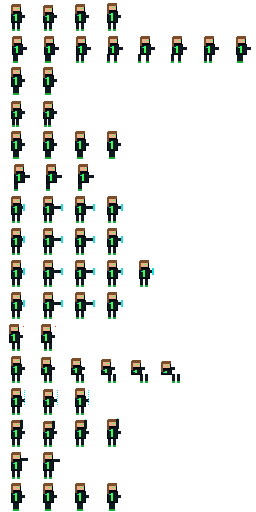
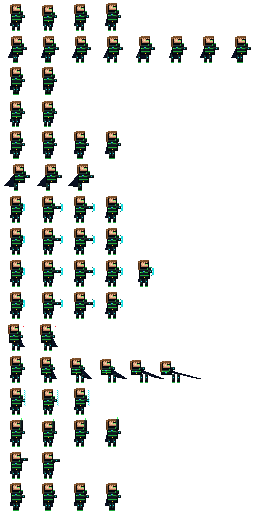
feat(art): heroes v2 - segmented armor, ramps, photo-extracted portraits
pixkit shading toolkit (ramps, dither, glow), palette ramps sampled from
the key art, hero frames rebuilt (armor plates + green piping, capes,
shoulder pads, 2-tone faces, Chris emitter / Flam long hair), portraits
and stage-5 vault wall extracted directly from CHRIS_FLAM_LEVEL_1_VICTORY.

diff --git a/tools/artgen/generate_placeholders.py b/tools/artgen/generate_placeholders.py
@@ -17,6 +17,8 @@ from PIL import Image, ImageDraw
 
 sys.path.insert(0, os.path.dirname(__file__))
 import palette as P  # noqa: E402
+from pixkit import (dither_row, glow_disc, glow_pool, scale_color,  # noqa: E402
+                    shade_rect, vshade_rect)
 
 FRAME = 32  # player frame size
 SHEET_COLS = 8
@@ -43,12 +45,18 @@ def _outline_rect(draw, x0, y0, x1, y1, fill, outline=P.OUTLINE):
     draw.rectangle([x0, y0, x1, y1], fill=fill, outline=outline)
 
 
-def draw_hero_frame(draw, ox: int, oy: int, anim: str, i: int, hair, long_hair: bool):
+def draw_hero_frame(draw, ox: int, oy: int, anim: str, i: int, hero: str):
     """One 32x32 hero frame at sheet offset (ox, oy).
 
-    Simple articulated placeholder: head + suit torso + legs + arm, with
-    per-animation offsets so timing/feel is testable before real art.
+    Key-art look: segmented black armor with green circuit piping between
+    plates, shoulder pads, cape, glowing chest logo, 2-tone face.
+    hero = 'chris' (bulky, short dark hair, forearm shield emitter) or
+    'flam' (lean, long swaying brown hair, cyan accents).
     """
+    chris = hero == "chris"
+    hair_ramp = P.CHRIS_HAIR_RAMP if chris else P.FLAM_HAIR_RAMP
+    accent = P.GREEN_DARK if chris else P.CYAN
+    half = 6 if chris else 5  # torso half-width: Chris is the tank
     cx = ox + 16  # frame center x
     is_attack = anim.startswith("attack") or anim == "air_attack"
     bob = [0, 1, 0, -1][i % 4] if anim in ("idle", "victory", "ability") else 0
@@ -87,54 +95,116 @@ def draw_hero_frame(draw, ox: int, oy: int, anim: str, i: int, hair, long_hair: 
         arm_y = 10 + (i % 2)
 
     body_top = min(body_top, 24)
-    # legs (suit)
-    _rect(draw, cx - 4 + leg_l // 2, oy + 22, cx - 2 + leg_l // 2, oy + 29, P.SUIT)
-    _rect(draw, cx + 1 + leg_r // 2, oy + 22, cx + 3 + leg_r // 2, oy + 29, P.SUIT)
-    # boots (green glow soles)
-    _rect(draw, cx - 4 + leg_l // 2, oy + 29, cx - 2 + leg_l // 2, oy + 30, P.GREEN_DARK)
-    _rect(draw, cx + 1 + leg_r // 2, oy + 29, cx + 3 + leg_r // 2, oy + 30, P.GREEN_DARK)
-    # torso (suit with green chest line)
-    _outline_rect(draw, cx - 5 + lean, oy + body_top, cx + 5 + lean, oy + 22, P.SUIT)
-    _rect(draw, cx - 1 + lean, oy + body_top + 2, cx + lean, oy + 20, P.GREEN)
-    # chest coin logo (blue/green)
-    _px(draw, cx - 3 + lean, oy + body_top + 3, P.BLUE)
-    _px(draw, cx - 2 + lean, oy + body_top + 3, P.GREEN)
-    # arm
-    _rect(draw, cx + 4 + lean, oy + arm_y, cx + 4 + lean + arm_len, oy + arm_y + 2, P.SUIT)
+    t0, t1 = oy + body_top, oy + 22
+
+    # cape behind everything (dark navy, trails against motion, sways at rest)
+    cape_sway = [0, 1, 0, -1][i % 4]
+    draw.polygon([
+        (cx - half + 1 + lean, t0 + 1),
+        (cx + half - 1 + lean, t0 + 1),
+        (cx + half - 2 + cape_sway - lean * 2, oy + 26),
+        (cx - half - 1 + cape_sway - lean * 2, oy + 25),
+    ], fill=(10, 16, 34, 255))
+    draw.line([(cx - half + cape_sway - lean * 2, oy + 25),
+               (cx + half - 3 + cape_sway - lean * 2, oy + 26)],
+              fill=(6, 10, 22, 255))  # cape hem shadow
+
+    # legs: armored, knee piping, glow soles
+    for leg_x, off in ((cx - 4, leg_l // 2), (cx + 1, leg_r // 2)):
+        shade_rect(draw, leg_x + off, oy + 22, leg_x + 2 + off, oy + 28, P.ARMOR_RAMP)
+        _px(draw, leg_x + 1 + off, oy + 25, accent)  # knee seam
+        _rect(draw, leg_x + off, oy + 29, leg_x + 2 + off, oy + 30, P.ARMOR_RAMP[0])
+        _rect(draw, leg_x + off, oy + 30, leg_x + 2 + off, oy + 30, P.GREEN_DARK)
+
+    # torso: 3 armor plates split by green piping seams
+    _outline_rect(draw, cx - half + lean, t0, cx + half + lean, t1, P.ARMOR_RAMP[1])
+    draw.line([(cx - half + 1 + lean, t0 + 1), (cx + half - 1 + lean, t0 + 1)],
+              fill=P.ARMOR_RAMP[2])  # top plate light
+    draw.line([(cx + half - 1 + lean, t0 + 2), (cx + half - 1 + lean, t1 - 1)],
+              fill=P.ARMOR_RAMP[0])  # side shadow
+    h = t1 - t0
+    for seam_y in (t0 + h // 3 + 1, t0 + 2 * h // 3 + 1):
+        if t0 + 1 < seam_y < t1:
+            draw.line([(cx - half + 1 + lean, seam_y), (cx + half - 1 + lean, seam_y)],
+                      fill=P.GREEN_DARK)
+    _px(draw, cx - half + 1 + lean, t0 + h // 3 + 1, P.GREEN)  # piping glint
+    # belt with gold buckle
+    draw.line([(cx - half + 1 + lean, t1 - 1), (cx + half - 1 + lean, t1 - 1)],
+              fill=P.ARMOR_RAMP[0])
+    _px(draw, cx + lean, t1 - 1, P.GOLD)
+    # glowing chest logo (blue/green coin)
+    _px(draw, cx - 1 + lean, t0 + 3, P.BLUE)
+    _px(draw, cx + lean, t0 + 3, P.GREEN)
+    _px(draw, cx - 1 + lean, t0 + 4, P.BLUE_RAMP[0])
+    _px(draw, cx + lean, t0 + 4, P.GREEN_RAMP[0])
+
+    # shoulder pads (green rim on top)
+    shade_rect(draw, cx + half - 2 + lean, t0 - 1, cx + half + 1 + lean, t0 + 2,
+               (P.ARMOR_RAMP[0], P.ARMOR_RAMP[1], P.GREEN_DARK))
+    _px(draw, cx - half + lean, t0, P.ARMOR_RAMP[2])  # far pad hint
+
+    # arm: segmented, Chris carries the shield emitter on the forearm
+    shade_rect(draw, cx + 4 + lean, oy + arm_y, cx + 4 + lean + arm_len,
+               oy + arm_y + 2, P.ARMOR_RAMP)
+    if arm_len >= 3:
+        _px(draw, cx + 5 + lean + arm_len // 2, oy + arm_y + 1, accent)  # elbow seam
+    if chris and arm_len >= 3:
+        _px(draw, cx + 3 + lean + arm_len, oy + arm_y, P.CYAN)  # emitter
     if is_attack:
-        # melee swoosh at arm tip
-        _rect(draw, cx + 5 + lean + arm_len, oy + arm_y - 2, cx + 6 + lean + arm_len,
-              oy + arm_y + 4, P.CYAN)
-    # head
+        # melee swoosh at arm tip (cyan arc with hot core)
+        tip = cx + 5 + lean + arm_len
+        _rect(draw, tip, oy + arm_y - 2, tip + 1, oy + arm_y + 4, P.CYAN)
+        _px(draw, tip, oy + arm_y + 1, P.WHITE)
+        _px(draw, tip - 1, oy + arm_y - 3, P.CYAN_RAMP[0])
+        _px(draw, tip - 1, oy + arm_y + 5, P.CYAN_RAMP[0])
+
+    # head: 2-tone skin, brow, green eyes
     head_y = oy + body_top - 8
     _outline_rect(draw, cx - 4 + lean, head_y, cx + 4 + lean, head_y + 7, P.SKIN)
-    # hair
-    _rect(draw, cx - 4 + lean, head_y, cx + 4 + lean, head_y + 2, hair)
-    if long_hair:
-        _rect(draw, cx - 5 + lean, head_y + 1, cx - 4 + lean, head_y + 9 + (i % 2), hair)
-    # visor eyes (green)
+    draw.line([(cx - 3 + lean, head_y + 6), (cx + 3 + lean, head_y + 6)],
+              fill=P.SKIN_RAMP[0])  # jaw shadow
+    _px(draw, cx - 3 + lean, head_y + 5, P.SKIN_RAMP[0])
+    _px(draw, cx - 1 + lean, head_y + 4, P.SKIN_RAMP[2])  # cheek light
+    draw.line([(cx + 1 + lean, head_y + 3), (cx + 3 + lean, head_y + 3)],
+              fill=P.OUTLINE)  # brow
     _px(draw, cx + 1 + lean, head_y + 4, P.GREEN)
     _px(draw, cx + 3 + lean, head_y + 4, P.GREEN)
 
+    # hair: base + hairline dither + shine
+    _rect(draw, cx - 4 + lean, head_y, cx + 4 + lean, head_y + 1, hair_ramp[1])
+    dither_row(draw, cx - 4 + lean, cx + 4 + lean, head_y + 2, hair_ramp[1], phase=1)
+    _px(draw, cx - 2 + lean, head_y, hair_ramp[2])  # shine
+    _px(draw, cx + 4 + lean, head_y + 1, hair_ramp[0])
+    if not chris:
+        # Flam: long strand down the left, sways with the frame
+        sway = i % 2
+        _rect(draw, cx - 6 + lean, head_y + 1, cx - 5 + lean, head_y + 9 + sway,
+              hair_ramp[1])
+        draw.line([(cx - 6 + lean, head_y + 3), (cx - 6 + lean, head_y + 8 + sway)],
+                  fill=hair_ramp[0])
+        _px(draw, cx - 5 + lean, head_y + 2, hair_ramp[2])
+
     if anim == "ability":
-        # Chris: shield shimmer arc / Flam: charge glow — generic cyan arc
+        # Chris: shield shimmer arc / Flam: charge glow — cyan arc
         for dy in range(-2, 14, 2):
             _px(draw, cx + 8 + (i % 2), oy + 8 + dy, P.CYAN)
+            _px(draw, cx + 9 + (i % 2), oy + 9 + dy, (22, 224, 224, 90))
     if anim == "hurt":
         _px(draw, cx - 7, oy + 8, P.RED)
         _px(draw, cx + 7, oy + 6, P.RED)
     if anim == "victory":
-        # raised fist
-        _rect(draw, cx + 4, oy + 4 + bob, cx + 6, oy + 12, P.SUIT)
+        # raised armored fist with glowing knuckle
+        shade_rect(draw, cx + 4, oy + 4 + bob, cx + 6, oy + 12, P.ARMOR_RAMP)
         _px(draw, cx + 5, oy + 3 + bob, P.GREEN)
+        _px(draw, cx + 5, oy + 2 + bob, P.GREEN_RAMP[2])
 
 
-def gen_player_sheet(path: str, hair, long_hair: bool):
+def gen_player_sheet(path: str, hero: str):
     sheet = Image.new("RGBA", (SHEET_COLS * FRAME, len(PLAYER_ANIMS) * FRAME), P.TRANSPARENT)
     draw = ImageDraw.Draw(sheet)
     for row, (anim, frames) in enumerate(PLAYER_ANIMS):
         for i in range(frames):
-            draw_hero_frame(draw, i * FRAME, row * FRAME, anim, i, hair, long_hair)
+            draw_hero_frame(draw, i * FRAME, row * FRAME, anim, i, hero)
     sheet.save(path)
 
 
@@ -733,8 +803,8 @@ def main():
     for sub in ("characters", "tiles", "props", "enemies", "fx", "backgrounds"):
         os.makedirs(f"{out}/{sub}", exist_ok=True)
 
-    gen_player_sheet(f"{out}/characters/chris_sheet.png", P.CHRIS_HAIR, False)
-    gen_player_sheet(f"{out}/characters/flam_sheet.png", P.FLAM_HAIR, True)
+    gen_player_sheet(f"{out}/characters/chris_sheet.png", "chris")
+    gen_player_sheet(f"{out}/characters/flam_sheet.png", "flam")
     gen_portraits(f"{out}/characters/portraits.png")
     gen_coin(f"{out}/props/coin.png")
     gen_tileset(f"{out}/tiles/tileset_office.png")

diff --git a/tools/artgen/extract_from_key_art.py b/tools/artgen/extract_from_key_art.py
@@ -1,0 +1,105 @@
+"""Extract character portraits and the stage-5 vault-wall texture from the
+key art (CHRIS_FLAM_LEVEL_1_VICTORY.png) — the one place we can take pixels
+straight from the source instead of approximating them.
+
+Deterministic: fixed crop boxes (fractions of the source size), LANCZOS
+downscale, adaptive palette quantize. Run AFTER generate_placeholders.py —
+it overwrites portraits.png with the real faces.
+
+Usage:  python tools/artgen/extract_from_key_art.py [--src <photo>] [--out assets/art] [--debug]
+"""
+from __future__ import annotations
+
+import argparse
+import os
+import sys
+
+from PIL import Image, ImageDraw
+
+sys.path.insert(0, os.path.dirname(__file__))
+import palette as P  # noqa: E402
+
+DEFAULT_SRC = os.path.expanduser(
+    "~/OneDrive/Υπολογιστής/CHRIS_FLAM_LEVEL_1_VICTORY.png")
+
+# Crop boxes as fractions (x0, y0, x1, y1) of the source image.
+CHRIS_FACE = (0.024, 0.012, 0.080, 0.112)
+FLAM_FACE = (0.676, 0.012, 0.732, 0.112)
+# Vault-chamber walls with the in-world propaganda monitors; stop above the
+# KO'd bankers on the floor.
+VAULT_WALL_L = (0.000, 0.240, 0.175, 0.610)
+VAULT_WALL_R = (0.800, 0.240, 0.975, 0.610)
+
+
+def _crop(src: Image.Image, box) -> Image.Image:
+    w, h = src.size
+    return src.crop((int(box[0] * w), int(box[1] * h),
+                     int(box[2] * w), int(box[3] * h)))
+
+
+def _quantize(img: Image.Image, colors: int) -> Image.Image:
+    return img.convert("RGB").quantize(
+        colors=colors, method=Image.Quantize.MEDIANCUT,
+        dither=Image.Dither.NONE).convert("RGBA")
+
+
+def make_portraits(src: Image.Image, out_path: str) -> Image.Image:
+    """64x32: two 32x32 framed portraits (Chris, Flam) — same layout the
+    HUD/character-select/victory screens already slice."""
+    img = Image.new("RGBA", (64, 32), P.TRANSPARENT)
+    d = ImageDraw.Draw(img)
+    for idx, box in enumerate((CHRIS_FACE, FLAM_FACE)):
+        ox = idx * 32
+        face = _crop(src, box).resize((26, 26), Image.Resampling.LANCZOS)
+        face = _quantize(face, 24)
+        d.rectangle([ox + 2, 2, ox + 29, 29], fill=P.BG_PANEL, outline=P.GREEN_DARK)
+        img.paste(face, (ox + 3, 3))
+        d.rectangle([ox + 2, 2, ox + 29, 29], outline=P.GREEN_DARK)  # re-frame
+    img.save(out_path)
+    return img
+
+
+def make_vault_wall(src: Image.Image, out_path: str) -> Image.Image:
+    """480x270 stage-5 far layer: photo wall left, mirrored right, darkened
+    center gap for the procedural corruption veins to live in."""
+    wall_l = _quantize(_crop(src, VAULT_WALL_L).resize(
+        (168, 270), Image.Resampling.LANCZOS), 32)
+    wall_r = _quantize(_crop(src, VAULT_WALL_R).resize(
+        (168, 270), Image.Resampling.LANCZOS), 32)
+    img = Image.new("RGBA", (480, 270), (3, 4, 10, 255))
+    img.paste(wall_l, (0, 0))
+    img.paste(wall_r, (312, 0))
+    # dim both walls toward the background (they sit far behind gameplay)
+    veil = Image.new("RGBA", (480, 270), (3, 4, 10, 120))
+    img = Image.alpha_composite(img, veil)
+    d = ImageDraw.Draw(img)
+    # center: giant dormant vault-door silhouette between the walls
+    for r, col in ((100, (14, 22, 50, 255)), (74, (10, 16, 38, 255)),
+                   (48, (14, 22, 50, 255)), (22, (24, 40, 80, 255))):
+        d.ellipse([240 - r, 135 - r, 240 + r, 135 + r], outline=col, width=3)
+    d.ellipse([228, 123, 252, 147], fill=(10, 16, 38, 255), outline=(24, 40, 80, 255))
+    d.chord([228, 123, 252, 147], 90, 270, fill=(16, 60, 40, 255))  # yin-yang hint
+    img.save(out_path)
+    return img
+
+
+def main():
+    ap = argparse.ArgumentParser()
+    ap.add_argument("--src", default=DEFAULT_SRC)
+    ap.add_argument("--out", default="assets/art")
+    ap.add_argument("--debug", action="store_true",
+                    help="also save 4x contact sheet next to this script")
+    args = ap.parse_args()
+    src = Image.open(args.src).convert("RGBA")
+    portraits = make_portraits(src, f"{args.out}/characters/portraits.png")
+    wall = make_vault_wall(src, f"{args.out}/backgrounds/stage_5_far.png")
+    if args.debug:
+        dbg = Image.new("RGBA", (64 * 4 + 480, 270), (30, 30, 30, 255))
+        dbg.paste(portraits.resize((256, 128), Image.Resampling.NEAREST), (0, 0))
+        dbg.paste(wall, (256, 0))
+        dbg.save(os.path.join(os.path.dirname(__file__), "_debug_extract.png"))
+    print("key-art extraction ->", args.out)
+
+
+if __name__ == "__main__":
+    main()

diff --git a/tools/artgen/pixkit.py b/tools/artgen/pixkit.py
@@ -1,0 +1,85 @@
+"""Pixel-art shading toolkit for artgen v2 — deterministic, Pillow-only.
+
+Everything the key art does that flat placeholders don't: color ramps
+(dark -> base -> light), top-left shading, rim light, dithering, and
+2-step radial glow. Shared by all sheet generators.
+"""
+from __future__ import annotations
+
+from PIL import Image, ImageDraw
+
+
+def shade_rect(d: ImageDraw.ImageDraw, x0: int, y0: int, x1: int, y1: int,
+               ramp, outline=None) -> None:
+    """Fill with ramp base, light on top+left edge, dark on bottom+right.
+
+    ramp = (dark, base, light). Rects smaller than 3px in a dimension
+    degrade gracefully (light wins over dark).
+    """
+    dark, base, light = ramp
+    d.rectangle([x0, y0, x1, y1], fill=base)
+    if y1 > y0:
+        d.line([(x0, y1), (x1, y1)], fill=dark)      # bottom shadow
+    if x1 > x0:
+        d.line([(x1, y0 + 1), (x1, y1)], fill=dark)  # right shadow
+    d.line([(x0, y0), (x1, y0)], fill=light)         # top light
+    if y1 > y0 + 1:
+        d.line([(x0, y0), (x0, y1 - 1)], fill=light)  # left light
+    if outline is not None:
+        d.rectangle([x0, y0, x1, y1], outline=outline)
+
+
+def vshade_rect(d: ImageDraw.ImageDraw, x0: int, y0: int, x1: int, y1: int,
+                ramp) -> None:
+    """Vertical 3-band fill: light top third, base middle, dark bottom third.
+    For larger surfaces (torsos, columns) where edge shading is too subtle."""
+    dark, base, light = ramp
+    h = y1 - y0 + 1
+    d.rectangle([x0, y0, x1, y0 + max(1, h // 3) - 1], fill=light)
+    d.rectangle([x0, y0 + max(1, h // 3), x1, y1 - max(1, h // 4)], fill=base)
+    d.rectangle([x0, y1 - max(1, h // 4) + 1, x1, y1], fill=dark)
+
+
+def dither(d: ImageDraw.ImageDraw, x0: int, y0: int, x1: int, y1: int,
+           c1, c2) -> None:
+    """Checkerboard dither between two colors — retro texture/gradient."""
+    for y in range(y0, y1 + 1):
+        for x in range(x0, x1 + 1):
+            d.point((x, y), fill=c1 if (x + y) % 2 == 0 else c2)
+
+
+def dither_row(d: ImageDraw.ImageDraw, x0: int, x1: int, y: int, c,
+               phase: int = 0) -> None:
+    """Every-other-pixel row of a single color over what's already there."""
+    for x in range(x0, x1 + 1):
+        if (x + phase) % 2 == 0:
+            d.point((x, y), fill=c)
+
+
+def glow_disc(img: Image.Image, cx: int, cy: int, r: int, color) -> None:
+    """2-step additive-looking radial glow, alpha-composited (halo + core)."""
+    overlay = Image.new("RGBA", img.size, (0, 0, 0, 0))
+    d = ImageDraw.Draw(overlay)
+    rr, g, b = color[0], color[1], color[2]
+    d.ellipse([cx - r, cy - r // 2, cx + r, cy + r // 2], fill=(rr, g, b, 40))
+    r2 = max(1, r // 2)
+    d.ellipse([cx - r2, cy - r2 // 2, cx + r2, cy + r2 // 2], fill=(rr, g, b, 80))
+    img.alpha_composite(overlay)
+
+
+def glow_pool(img: Image.Image, cx: int, floor_y: int, w: int, color) -> None:
+    """Elliptical light pool on the floor under a glowing sign/monitor."""
+    overlay = Image.new("RGBA", img.size, (0, 0, 0, 0))
+    d = ImageDraw.Draw(overlay)
+    rr, g, b = color[0], color[1], color[2]
+    d.ellipse([cx - w, floor_y - 3, cx + w, floor_y + 3], fill=(rr, g, b, 34))
+    d.ellipse([cx - w // 2, floor_y - 2, cx + w // 2, floor_y + 2],
+              fill=(rr, g, b, 60))
+    img.alpha_composite(overlay)
+
+
+def scale_color(color, factor: float):
+    """Darken (<1) or brighten (>1) an RGBA tuple, clamped."""
+    r, g, b = (min(255, max(0, int(c * factor))) for c in color[:3])
+    a = color[3] if len(color) > 3 else 255
+    return (r, g, b, a)

diff --git a/tools/artgen/palette.py b/tools/artgen/palette.py
@@ -24,3 +24,20 @@ TRANSPARENT = (0, 0, 0, 0)
 # Character-specific
 CHRIS_HAIR = (42, 30, 22, 255)      # short dark
 FLAM_HAIR = (122, 78, 42, 255)      # long brown
+
+# --- Ramps (dark, base, light) — artgen v2 shading. The key art never uses
+# --- a hue in a single tone; these triples are sampled from it.
+ARMOR_RAMP = ((6, 10, 14, 255), (16, 24, 32, 255), (36, 56, 48, 255))
+SUIT_RAMP = ((34, 42, 54, 255), (58, 70, 86, 255), (92, 108, 128, 255))
+GRAY_RAMP = ((58, 70, 86, 255), (122, 140, 160, 255), (176, 190, 205, 255))
+SKIN_RAMP = ((184, 124, 92, 255), (232, 176, 138, 255), (255, 216, 182, 255))
+GREEN_RAMP = ((20, 110, 40, 255), (31, 168, 60, 255), (57, 255, 90, 255))
+CYAN_RAMP = ((10, 110, 110, 255), (22, 224, 224, 255), (170, 255, 255, 255))
+BLUE_RAMP = ((12, 44, 110, 255), (17, 72, 184, 255), (38, 168, 255, 255))
+GOLD_RAMP = ((140, 100, 20, 255), (255, 200, 37, 255), (255, 236, 150, 255))
+RED_RAMP = ((140, 18, 32, 255), (255, 48, 64, 255), (255, 130, 140, 255))
+PANEL_RAMP = ((4, 8, 16, 255), (10, 20, 34, 255), (20, 38, 60, 255))
+CHRIS_HAIR_RAMP = ((22, 15, 10, 255), (42, 30, 22, 255), (78, 56, 40, 255))
+FLAM_HAIR_RAMP = ((74, 46, 24, 255), (122, 78, 42, 255), (176, 120, 70, 255))
+DEMON_RAMP = ((18, 4, 8, 255), (46, 8, 16, 255), (96, 20, 32, 255))
+HOLO_RAMP = ((10, 34, 74, 255), (20, 60, 120, 255), (40, 110, 190, 255))
